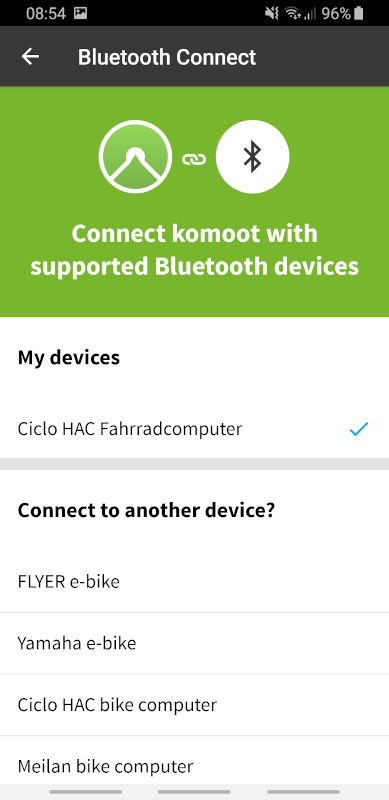
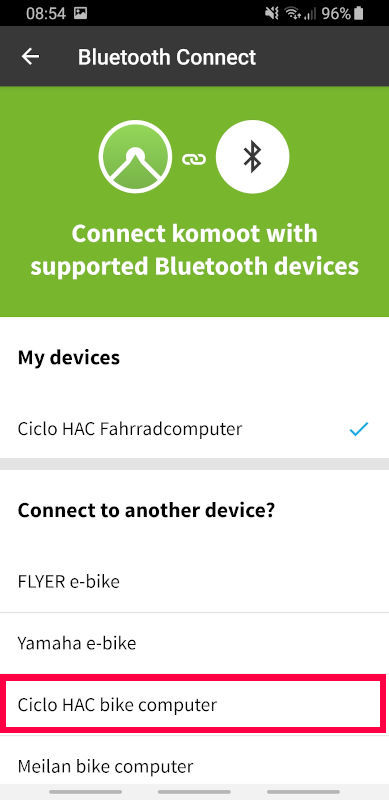
pairing screenshot

Changed region(s): [[0.0, 0.8438, 1.0, 0.9375]]

diff --git a/doc/Komoot BLE receiver.md b/doc/Komoot BLE receiver.md
@@ -22,6 +22,10 @@ Then select "Ciclo HAC bike computer" from the "Connect anaother device" section
 
 ![Komoot device pairing](/doc/Komoot-app-pairing.jpg)
 
+If the device was discovered ("Ciclo HAC Device &#10004;" shown above the "&#8634; Waiting for connection..."), you are done and need to manually go back to the settings.
+
+![Komoot device pairing](/doc/Komoot-app-waiting.jpg)
+
 ## Code
 
 The code was originally developed with Arduino IDE, but then I changed to PlatformIO (on  VS Code or Atom editor) due to better integration with Git, faster code complilation and good dependency management for teh libraries.
@@ -61,5 +65,3 @@ The [Fritzing](https://fritzing.org) source file: [Komoot_BLE](Komoot_BLE.fzz)
 3. Neil Kolban's [BLRexample file](https://github.com/nkolban/ESP32_BLE_Arduino)
 4. Adreas Spiess Polar receiver [video #174](https://youtu.be/osneajf7Xkg)
 5. Similar (newer) project [esp32_komoot_ble](https://github.com/jstiefel/esp32_komoot_ble)
-
-
